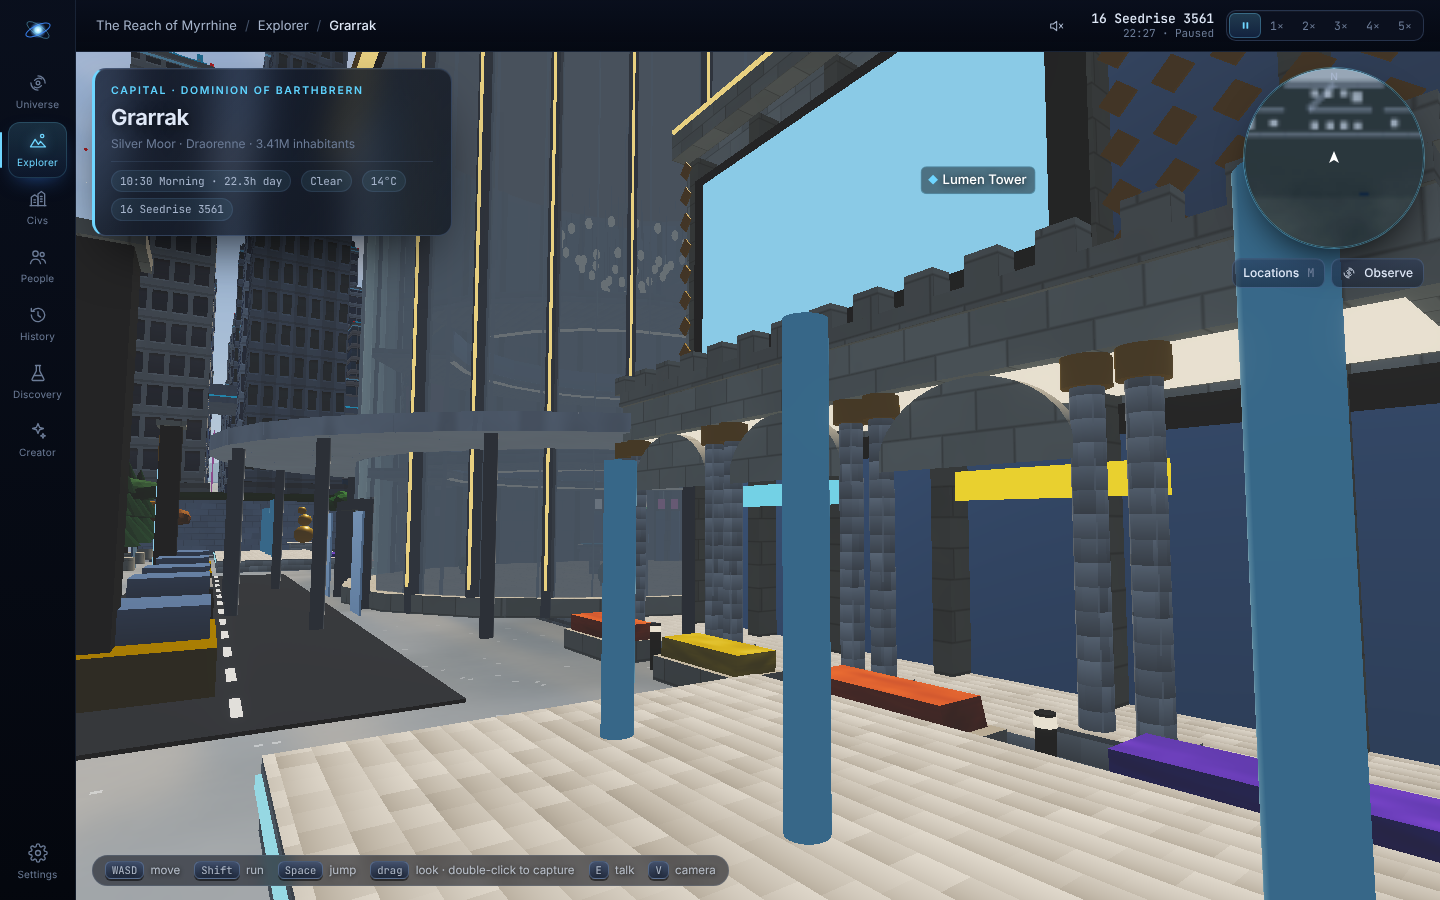
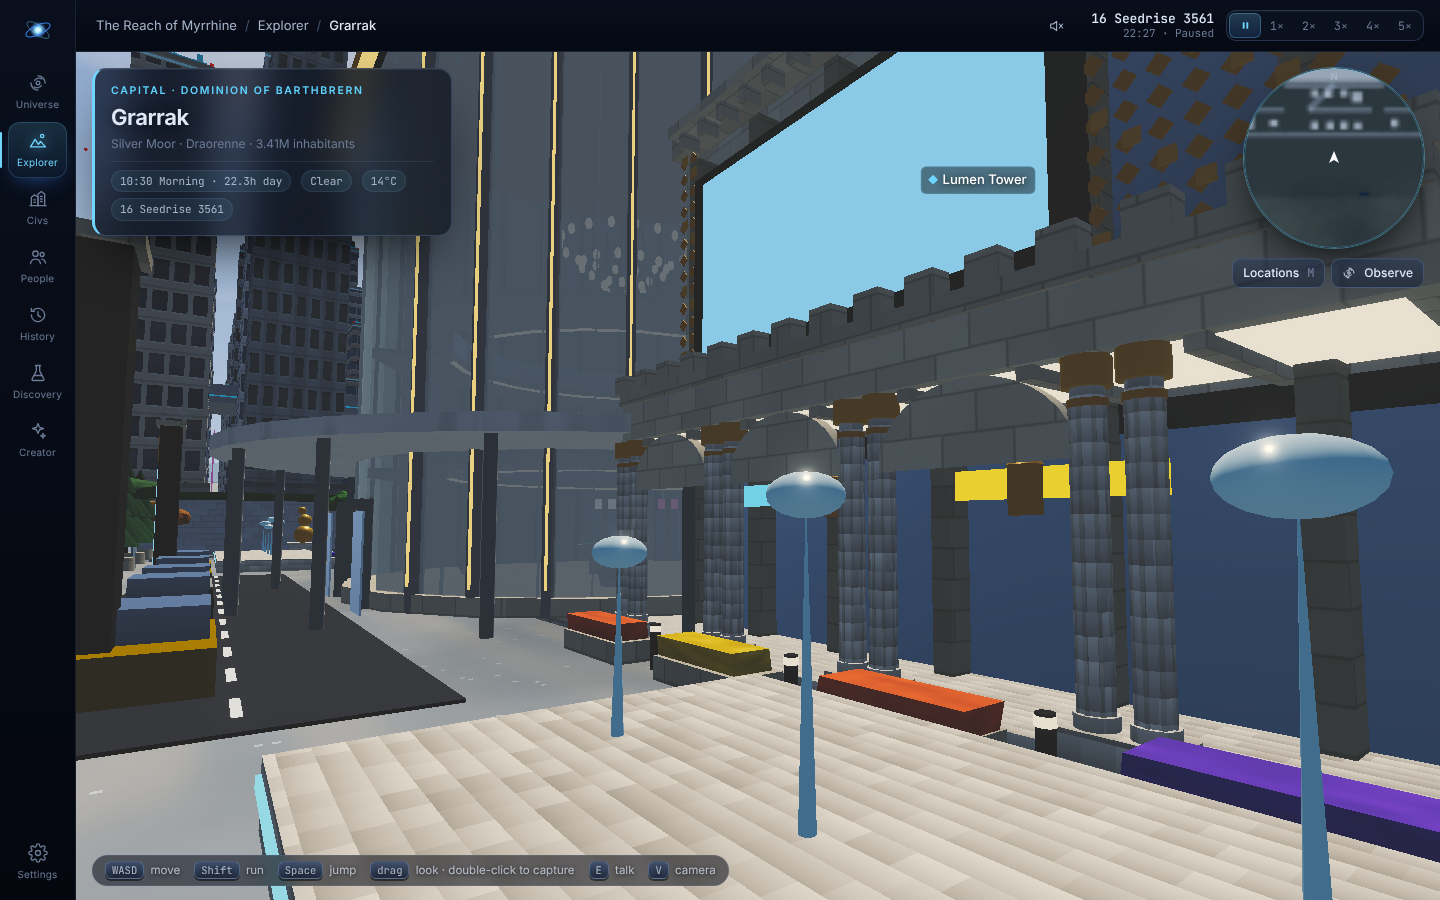
Mall fountain jets as fine streams with droplets; new exterior photos
Claude-Session: https://claude.ai/code/session_014yo4DpHJhzR4RbKay17FEp

diff --git a/src/explorer/districts.ts b/src/explorer/districts.ts
@@ -1266,8 +1266,8 @@ function mall(out: DistrictData, b: Building, y0: number, warm: boolean) {
       add('box', 'water', cx, 0.9, fz + 5.5, 17, 0.12, 5, '#4ab8d8');
       for (let k = 0; k < 6; k++) {
         const jh = 1.4 + r(400 + k + s) * 1.8;
-        add('cone', 'water', cx - 7.5 + k * 3, 1, fz + 5.5, 0.14, jh, 0.14, '#e8f8ff');
-        add('sphere', 'water', cx - 7.5 + k * 3, 1 + jh, fz + 5.5, 0.6, 0.35, 0.6, '#e8f8ff');
+        add('cone', 'water', cx - 7.5 + k * 3, 1, fz + 5.5, 0.08, jh, 0.08, '#e8f8ff');
+        for (let q = 0; q < 5; q++) add('sphere', 'water', cx - 7.5 + k * 3 + Math.cos(q * 1.26) * 0.35, 1 + jh * (0.75 + 0.05 * q), fz + 5.5 + Math.sin(q * 1.26) * 0.35, 0.12, 0.16, 0.12, '#e8f8ff');
       }
       add('box', 'glow', cx, 0.9, fz + 8.55, 17, 0.12, 0.05, '#7ae0ff');
     }
